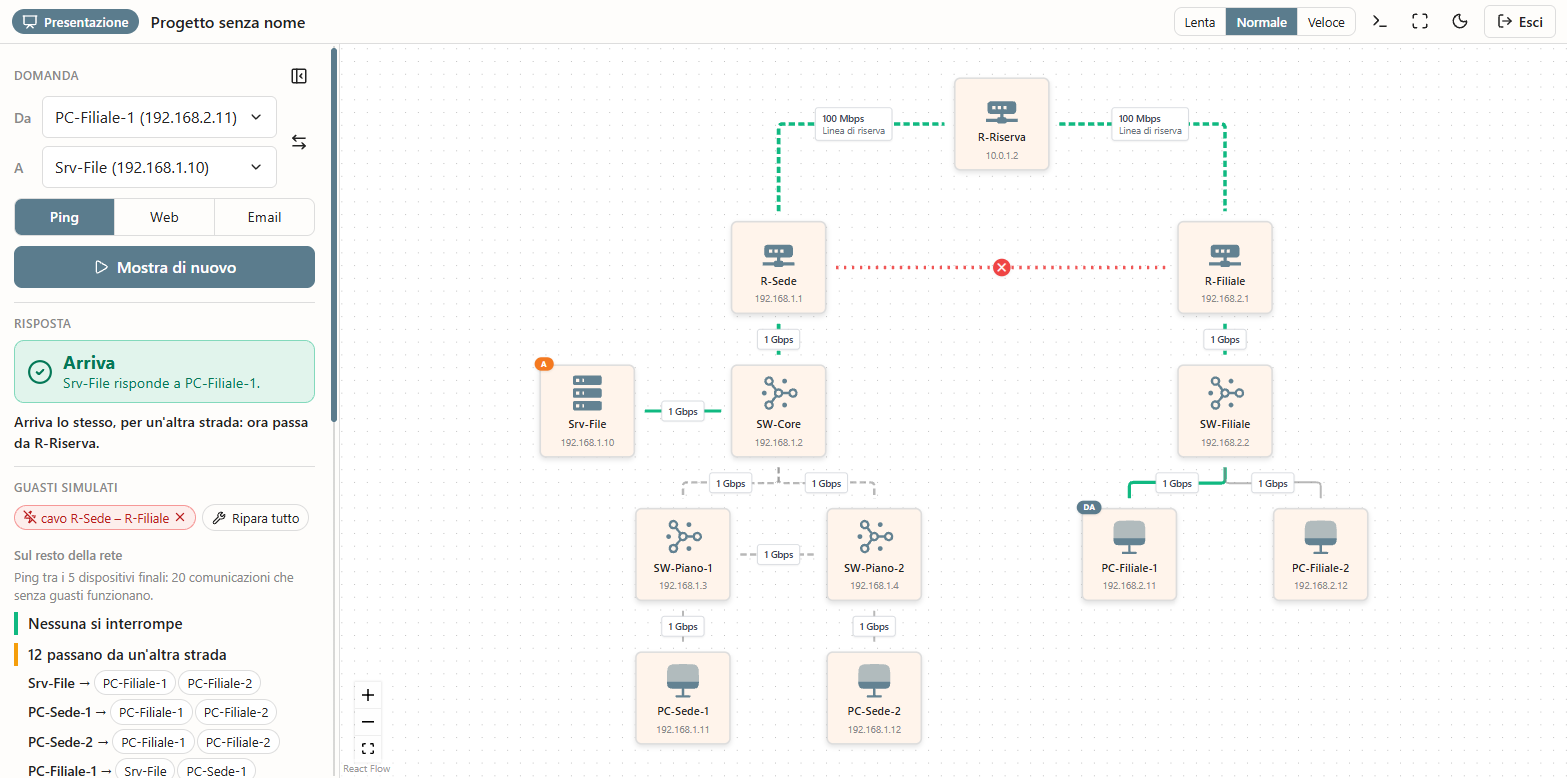
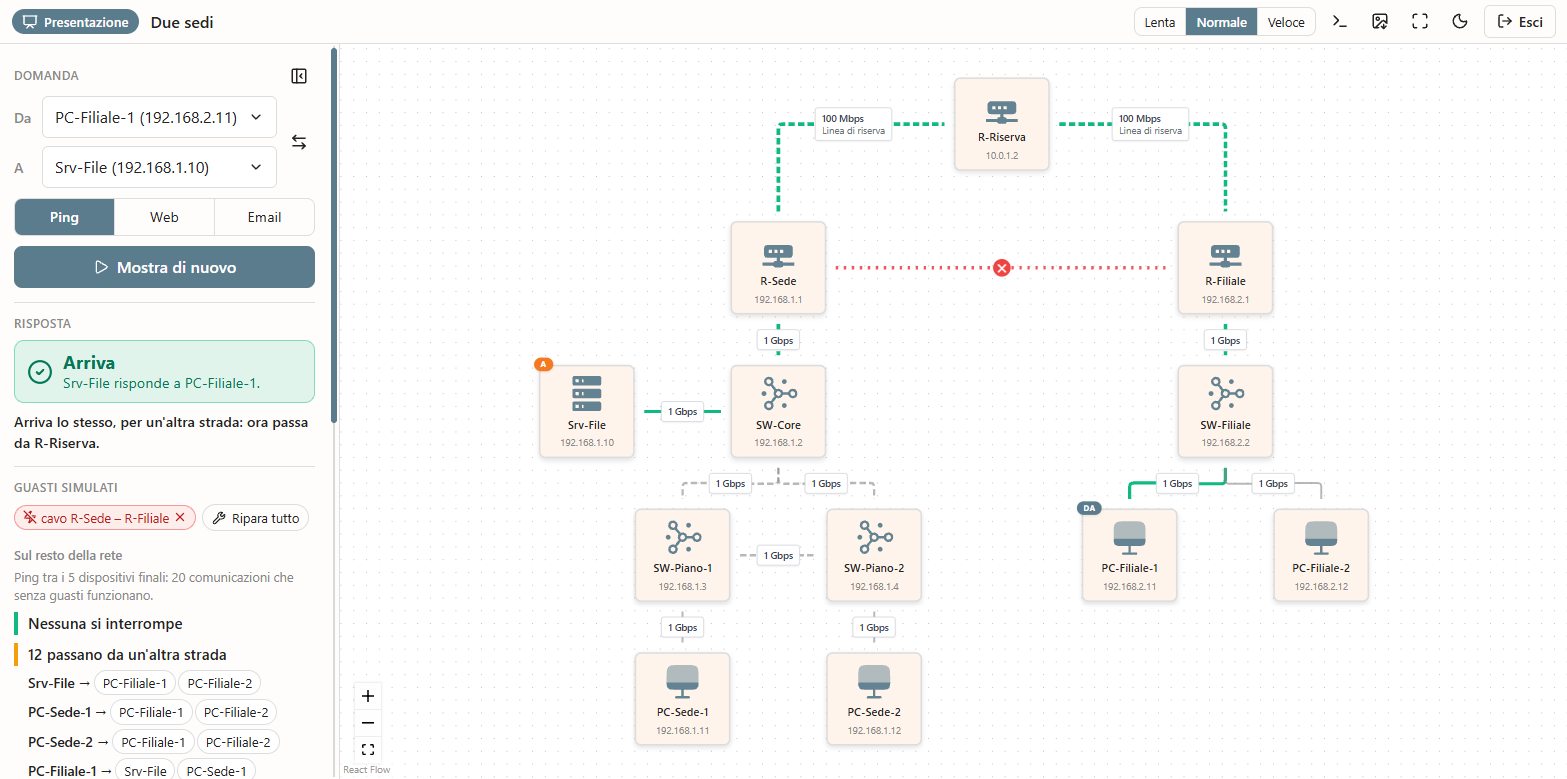
Documents and pictures for the image export
README: the board as a picture, with one made by the feature itself, and
its limits; image export leaves the list of what is next. The screenshot
of presentation mode is taken again, with the new button on the bar.
Architecture and changelog follow.

diff --git a/ARCHITECTURE.md b/ARCHITECTURE.md
@@ -60,10 +60,10 @@ All stores use Zustand. There is no server: what must survive a reload is kept i
 While presenting, NetworkCanvas makes the drawing read-only (nothing is selected, moved, joined, deleted or pasted; dragging pans), a click on a device or a cable opens the presentation menu, the drawing is fitted to the window, and the view saved with the drawing is not touched. NetworkDevice and CustomEdge mark the ends of the question, a broken device, a cut cable and the way of the answer.
 
 ### Presentation (`frontend/src/components/Presentation/`)
-- **PresentationBar** - Takes the place of the menu bar: project and canvases, pace of the packet, terminal, full screen, exit (also Esc)
+- **PresentationBar** - Takes the place of the menu bar: project and canvases, pace of the packet, terminal, the picture of what is on screen, full screen, exit (also Esc)
 - **PresentationPanel** - Question, answer, simulated failures with their effect on the rest of the network, and the way hop by hop. `usePresentationAnswer` works all of it out from the drawing, the question and the failures, marks the way on the canvas and sets the packet off at every change
 - **PresentationMenu** - The menu a click on a device or a cable opens: start here, arrive here, break, repair
-- `utils/presentation.ts` - Pure: the engine's answer turned into what is shown (Italian sentences, rows tied to the animation, exchanges grouped by device). The reasons and notes of the engine are shown as the engine wrote them
+- `utils/presentation.ts` - Pure: the engine's answer turned into what is shown (Italian sentences, rows tied to the animation, exchanges grouped by device, the caption of an exported picture). The reasons and notes of the engine are shown as the engine wrote them
 
 ### WelcomeScreen (`frontend/src/components/WelcomeScreen.tsx`)
 - Excalidraw-style minimalist transparent overlay on canvas (NOT popup)
@@ -77,6 +77,7 @@ While presenting, NetworkCanvas makes the drawing read-only (nothing is selected
 ### Modals (Enterprise Style)
 - **InspectorModal** - Device configuration in tabs: Generale, Porte (switch, router, firewall) or Schede di rete (end devices), Rotte (router, firewall: `ui/RoutesPanel`, with the routing table the engine would read from the form), Regole (firewall: `ui/FirewallRulesPanel`, ordered rules). Routes and rules are validated on save (`utils/networkConfigValidation.ts`)
 - **HelpModal** - The guide, in three tabs: how to use the app, the terminal commands (rendered from `COMMAND_REFERENCE`, the table the terminal's `help` prints), information
+- **ExportImageModal** - The board as a picture: preview, format (PNG, SVG), size, theme, title, background; save to a file or copy to the clipboard. It exists only while it is open, so every time it starts from the drawing and the theme on screen. See "The drawing as a picture" below
 - **ConnectionInspectorModal** - Connection properties editor
 - **SettingsModal** - App settings with tabbed interface
 - **BulkAddDeviceModal** - Bulk device creation with table-based interface
@@ -103,7 +104,7 @@ While presenting, NetworkCanvas makes the drawing read-only (nothing is selected
 - Buttons: "Salva su file", "Apri file…"
 
 ### Top Menu Bar (`frontend/src/components/Toolbar/TopMenuBar.tsx`)
-- File Menu: Nuovo progetto…, Apri…, Salva (Ctrl+S), Salva con nome…
+- File Menu: Nuovo progetto…, Apri…, Salva (Ctrl+S), Salva con nome…, Esporta immagine…
 - Aiuto Menu: Guida, Comandi del terminale, Mostra la schermata di benvenuto, Informazioni
 - No entry is there to announce a feature: an entry that cannot act (nothing selected to copy) is disabled only for as long as that is true
 
@@ -192,6 +193,42 @@ before routing existed gives the answers it gave.
   behind the guide.
 - The language is specified in `docs/terminal-commands.md`; a test parses every
   example of that document.
+
+### The drawing as a picture (`frontend/src/utils/drawingImage.ts`)
+
+The picture is not taken from the screen: the board is drawn again as one SVG
+document from the same data. That is what lets it be whole whatever the zoom,
+light or dark whatever the theme, a vector file, and a sharp PNG of any size.
+
+- `drawingImage.ts` — pure (no React, no stores, no DOM). `layoutDrawing()`
+  places devices and cables in canvas coordinates; `renderDrawingImage()`
+  writes the document, with an optional title above and caption below. The
+  caller gives the size each device has on screen, the shapes of the icons and
+  a way to measure text.
+- A cable is the path the screen draws (`getSmoothStepPath` between the same
+  two points, 12 px outside the boxes) carried on to the two boxes: a picture
+  has no connection points for it to stop at.
+- The numbers of a device (padding, border, line heights) and the colours of
+  the two themes are repeated from `index.css`. A test reads the style sheet
+  and fails when they drift apart. The colours of presentation mode
+  (`MARK_COLORS`) are shared with `CustomEdge`.
+- Everything the user typed is written as text (`escapeXml`). An icon fetched
+  by name for a custom template goes in only if it is a plain drawing
+  (`isPlainDrawing`): no script, no style, no reference outside the document.
+  Ids inside icons are prefixed per icon. The document refers to nothing
+  outside itself.
+- `drawingMeasure.ts` — what is asked of the browser: the size of each device
+  (`.react-flow__node[data-id]`, less the thicker border of a selected one),
+  the icon shapes Iconify has loaded, text widths from a canvas.
+- `imageExport.ts` — the ways out. `rasterizeSvg()` paints the document on a
+  canvas of the pixels it declares (`scaledSvg`); `fitScale()` keeps a PNG
+  within what browsers can paint. Saving asks where with the File System
+  Access API and downloads elsewhere; copying puts a PNG on the clipboard.
+  The PNG is made when the choices are made, not at the click: a browser lets
+  a page save or copy only straight from the click.
+- While presenting, the dialog hands over the marks of the presentation
+  (`DrawingMarks`) and asks the engine the questions of the panel again for
+  the caption (`captionOf` in `utils/presentation.ts`).
 
 ### Auto-Layout (`frontend/src/utils/autoLayout.ts`)
 - **Hierarchical layout** using dagre (top-down hierarchy)

diff --git a/README.md b/README.md
@@ -16,6 +16,7 @@ PixelCake is a browser-based designer for small networks. You draw the network, 
 - **Type.** A built-in terminal with a small vendor-neutral command language: `ping`, `trace`, `browse`, `show routes`, `add route`, `add rule`, `interface 3 access 10` and more. Commands that change the network edit the same drawing you see.
 - **Present.** A presentation mode puts the editing tools away. Click two devices to ask a question, watch the packet go, read the answer hop by hop. Then break something, a device or a cable, and see at once whether the traffic finds another way and which exchanges between end devices stop working. Nothing in the drawing changes.
 - **Save.** A project, with all its boards, is kept in the browser while you work and saved as a single `.pixelcake.json` file that you can open again or pass on. There is no server and no account.
+- **Hand over.** The board as a picture, PNG or SVG, in the light or the dark theme, to a file or to the clipboard. Made from a presentation, it carries the question, the answer and what was broken.
 - **Export.** The topology as YAML, which can be loaded back. A Terraform-style export exists only as a sketch.
 
 The interface is in Italian. The terminal language is English.
@@ -94,6 +95,18 @@ Every link is attached to a port or a network card at both ends, chosen automati
 
 When the engine cannot verify something, it says so in a note instead of answering "it works": a router whose ports have no address (it still lets traffic through, so drawings made before routing existed keep working), the Internet symbol, NAT. The engine is plain TypeScript with no UI dependencies, in [frontend/src/engine](frontend/src/engine). The same network always gives the same answer.
 
+### The drawing as a picture
+
+![The screen above as an exported picture: the whole board, the way of the answer in green through the backup router, the cut line in red, and under the drawing the question, its answer, the simulated failure and the effect on the other exchanges](docs/export.png)
+
+**File → Esporta immagine…** draws the whole board again as a picture. It is not a screenshot: it is made from the same data as the canvas, so it shows every device whatever the zoom, and never a selection or a connection point.
+
+- **PNG**, at one, two or three times the size of the screen, for documents, slides and messages; or **SVG**, a vector file that stays sharp at any size, with its texts still texts.
+- Light or dark, whatever the screen shows. The name of the project can be written above the drawing, and the background left out.
+- To a file, or to the clipboard where the browser allows it.
+
+Opened from a presentation (the picture button on its bar), it shows what the presentation shows: the two ends of the question, the cables the answer travels on, what is broken. Under the drawing it writes the question, the answer, the simulated failures and what they do to the rest of the network. The picture above is the screen of the previous section, exported.
+
 ## What it does not do
 
 - **It is not a packet-level simulator.** There is no ARP, MAC learning, DHCP, DNS or dynamic routing. Ping times are derived from the number of hops.
@@ -104,7 +117,8 @@ When the engine cannot verify something, it says so in a note instead of answeri
 - **Spanning tree is not simulated.** A drawing with redundant links is walked without loops, but no port is blocked.
 - **NAT is not applied.** It can be ticked on a router port, and a trace that crosses that port says addresses were not translated.
 - **The Internet symbol is a stand-in.** It is assumed to carry traffic, with a note.
-- **No undo, no image export.** Neither exists yet.
+- **No undo.** It does not exist yet.
+- **A picture is one board.** A project with several boards is exported one board at a time. The SVG names the fonts of the interface without embedding them: on a computer that has none of them the texts are set in another typeface. A PNG of a very large drawing is reduced to what the browser can paint, and the dialog says so.
 - **The YAML format is PixelCake's own.** Device names that look like numbers or booleans, and duplicate names, do not survive an export and import.
 - **The Terraform export cannot be applied.** It uses placeholder resource types and no provider. Reading existing Terraform state is not implemented.
 - **No accounts, no sharing.** A project is a file on your disk. Two browser tabs open on the same project do not see each other's changes: the last one to write wins.
@@ -129,7 +143,7 @@ The app's icons are bundled with it. Only an icon name typed by hand in a custom
 
 ```bash
 cd frontend
-pnpm test:run      # 1252 tests: engine, terminal, project files, import/export, screens
+pnpm test:run      # 1399 tests: engine, terminal, project files, import/export, pictures, screens
 pnpm type-check
 pnpm lint
 pnpm build
@@ -143,7 +157,7 @@ frontend/src/
   terminal/     command parser and executor
   components/   canvas, panels, windows
   store/        application state (Zustand, persisted in the browser)
-  utils/        auto-layout, IP helpers, project files, import and export
+  utils/        auto-layout, IP helpers, project files, import and export, pictures
 docs/           terminal command reference, project file format
 ```
 
@@ -157,9 +171,8 @@ Today the first two exist in a basic form and the third is only a sketch. The st
 
 ## What is next
 
-1. Export the drawing as an image.
-2. Undo and redo.
-3. In the engine: NAT, DHCP and DNS, then spanning tree.
+1. Undo and redo.
+2. In the engine: NAT, DHCP and DNS, then spanning tree.
 
 ## License
 

diff --git a/CHANGELOG.md b/CHANGELOG.md
@@ -15,6 +15,7 @@ and this project adheres to [Semantic Versioning](https://semver.org/spec/v2.0.0
 - **More that did nothing**: the Inspector tab announcing Terraform fields, the terminal's Minimize and Maximize dots, two Terraform fields on custom templates, a click-to-connect mode and two windows nothing opened.
 
 ### Added
+- **The drawing as a picture** (File → Esporta immagine…, and a button on the presentation bar). The whole board is drawn again from its data, not taken from the screen: a PNG at one, two or three times the size of the screen, or an SVG; light or dark whatever the screen shows; with or without the name of the project, with or without background; saved to a file or copied to the clipboard. Made from a presentation, the picture shows the ends of the question, the way of the answer and what is broken, and under the drawing it writes the question, the answer, the simulated failures and their effect on the rest of the network.
 - **Presentation mode** ("Presenta" on the menu bar, or Vista → Modalità presentazione). The editing tools are put away and the drawing can no longer be changed by clicking: a click on a device opens a small menu to start a question there or end it there, the packet goes by itself, and a panel says whether it arrives, through what, and where and why it stops. The way of the answer stays marked on the drawing. The bar has the pace of the packet, the terminal, full screen and the canvases of the project. Esc leaves.
 - **"What happens if this breaks".** In presentation mode a device or a cable can be taken as broken with a click. Nothing in the drawing changes, and the failure is gone when the presentation ends. The question on screen is asked again at once, and the panel counts, over every pair of end devices, how many exchanges stop working, how many take another way and how many do not notice; a click on one of them asks that question. The terminal sees the same failures while the presentation lasts.
 - **Failures in the engine.** A topology can carry devices that are down and cables that are cut. Between switches the shortest way that still works is taken. A router, or a host with two network cards, withdraws a route whose interface has no working cable left and takes the next route for that destination, saying so in a note.
@@ -48,6 +49,7 @@ and this project adheres to [Semantic Versioning](https://semver.org/spec/v2.0.0
   - Subtle 2px track line matching BulkAddDeviceModal design
 
 ### Changed
+- **A button that cannot be pressed looks it.** Disabled buttons in the dialogs were drawn like the others.
 - **The packet animation is quicker and can be restarted.** A long exchange took about twenty seconds; cables now take between a third of a second and a second each. Starting a new animation, or stopping one, cancels the one in progress at once. The device the packet is stopping on is ringed.
 - **The engine follows the shortest way that works**, not the shortest on the drawing: a port that is down is gone round when there is another way. End devices no longer carry traffic for others, and a router with addressed ports no longer passes traffic between two devices addressed in one network.
 - **A router with more than one hop to go is checked**, no longer assumed. A router whose ports have no address still lets traffic through, with a note, so drawings made before this change give the answers they gave.
@@ -66,6 +68,7 @@ and this project adheres to [Semantic Versioning](https://semver.org/spec/v2.0.0
   - Two-part processing: configurable devices (with ports) + standard devices (with NICs)
 
 ### Fixed
+- **Cables follow a change of theme at once.** After switching between light and dark, each cable kept the grey of the old theme until it was drawn again.
 - **The packet travels on the cable the engine took.** Between two devices joined by two cables the animation always ran on the first one drawn, even when the traffic was on the other.
 - Ctrl+V while typing in a field pasted a copy of the selected devices on the canvas; Ctrl+C took over copying text. The canvas shortcuts now leave text alone.
 - A link removed with the Delete key disappeared from the drawing but stayed in the network.
